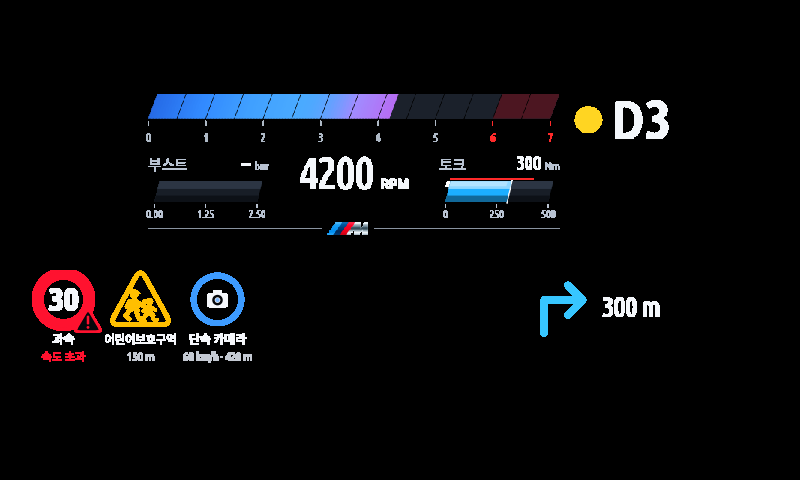
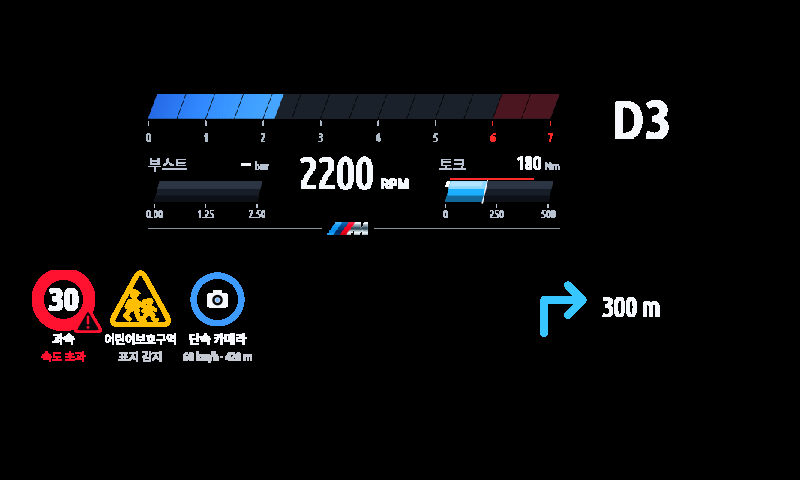
Cluster Redline 1.3.9: vehicle alerts from the inputs the drive logs showed
The 2026-11-14 drive logs: route events passed only with an empty type list
and returned none (speedLimitAssistInfo always NO_VALUE); the camera sign
recognition delivered speed limits and children signs. Speeding and children
signs now come from the sign recognition again (traffic-signs / traffic-live
restored from 1.2.57; inputs added read-only at install by traffic-config.js,
desktop patch v16 the same). Speed cameras stay on route events with the
empty list as the last fallback (not seen in either log). Status line shows
the sign / camera / speed receive counts.

Claude-Session: https://claude.ai/code/session_01LR6i2U2cVprmp7fS2LvR7P

diff --git a/apps/cluster_redline/worker.js b/apps/cluster_redline/worker.js
@@ -31,6 +31,8 @@ const {TurnSignal} = require('./turn-signal');
 const {TurnOverlay} = require('./turn-overlay');
 const {VehicleAlerts,SAMPLE:ALERT_SAMPLE} = require('./vehicle-alerts');
 const {AlertOverlay} = require('./alert-overlay');
+const {TrafficSigns,FIELDS:TRAFFIC_FIELDS} = require('./traffic-signs');
+const {live:trafficLive} = require('./traffic-live');
 const previewPresence = require('./preview-presence');
 function mono() { const p = process.hrtime(); return p[0] * 1000 + p[1] / 1000000; }
 function supportedRenderer() { return renderer.inspect(undefined, fs).compatible; }
@@ -80,6 +82,7 @@ function start(ctx) {
     const hudGuidance=new HudGuidance(mono,(proxy,method,args,timeout)=>signals.call(proxy,method,args,timeout));
     const routeEvents=new RouteEvents(mono,(proxy,method,args,timeout)=>signals.call(proxy,method,args,timeout));
     const lanes=new LaneGuidance(mono);
+    const traffic=new TrafficSigns(),trafficSubs=[];
     const vehicleAlerts=new VehicleAlerts(mono,(proxy,method,args,timeout)=>signals.call(proxy,method,args,timeout)),alertOverlay=new AlertOverlay(client);
     const turnSignal=new TurnSignal(),turnOverlay=new TurnOverlay(client);let lightSub=null,lightSeenAvailable=false,lightState='not_installed';
     const subs = [], errors = [];
@@ -153,6 +156,22 @@ function start(ctx) {
             StatusFunctionsIndicators: (v) => turnSignal.sample(v, mono()),
             StatusFunctionsIndicators2: (v) => turnSignal.sample(v, mono()),
         }, log, {}).then((s) => { lightSub = s; keep(s); lightState = s.error ? 'error' : 'subscribed'; if (s.error) reportError('optional turn signals', s.error); }).catch((e) => { lightState = 'error'; reportError('optional turn signals', e); });
+        // Vehicle alerts: the vehicle speed and the camera's sign recognition (added at install by traffic-config.js
+        // when the car's catalog has them). Events and fields notify; availability may never be reported, so a fresh
+        // event counts as live (traffic-live.js).
+        const here = typeof __dirname === 'string' ? __dirname : '.';
+        const instanceOf = (iface) => { for (const file of [path.resolve(here, '..', 'manifest.json'), path.resolve(here, '..', '..', 'manifest.json')]) {
+            try { const m = JSON.parse(fs.readFileSync(file, 'utf8')), p = m.proxies && m.proxies[iface]; if (p && p.instances) return String(p.instances).split(',')[0]; } catch (e) {} } return '1'; };
+        TRAFFIC_FIELDS.forEach(([iface, field]) => {
+            const entry = { iface, field, configured: false, received: 0, at: null, sub: null, error: null, wasAvailable: false, lostReceived: 0 }; trafficSubs.push(entry);
+            try {
+                const cfg = signals.loadConfig(iface);
+                if (!(cfg.fields && cfg.fields[field] || cfg.events && cfg.events[field] || cfg.broadcasts && cfg.broadcasts[field])) return;
+                entry.configured = true;
+                const handlers = {}; handlers[field] = (v) => { if (!stopped) { entry.received++; entry.at = mono(); traffic.sample(field, v, entry.at); } };
+                signals.watch(iface, instanceOf(iface), handlers, log, {}).then((s) => { entry.sub = s; keep(s); }).catch((e) => { entry.error = String(e && e.message || e); });
+            } catch (e) { entry.error = String(e && e.message || e); }
+        });
         // Read the common native/projection guidance channel. Never set routes,
         // call vehicle methods, or alter the BMW HUD/menu configuration.
         try {
@@ -364,8 +383,22 @@ function start(ctx) {
             else turnOverlay.tick(at, config, controller.turn, !!(pv && /^Turn/.test(pv.part || '')));
             // Vehicle alerts (vehicle-alerts.js): the car's speeding, school zone and speed camera events, on their
             // own HUD overlay; the Position / size preview shows every alert at once.
-            vehicleAlerts.tick(at, live && config.appEnabled && config.hudCarAlerts !== 'off' && !config.hudCarAlertHidden);
-            alertOverlay.tick(config, pv && pv.part === 'CarAlert' ? Object.assign({ preview: true }, ALERT_SAMPLE) : vehicleAlerts.read(at, config.hudCarAlerts));
+            // Speeding and children signs from the camera's sign recognition (traffic-signs.js, as the drive logs
+            // showed them); speed cameras from the navigation's route events (vehicle-alerts.js).
+            const alertsOn = live && config.appEnabled && config.hudCarAlerts !== 'off' && !config.hudCarAlertHidden;
+            const trafficStates = {}; trafficSubs.forEach((e) => { trafficStates[e.field] = trafficLive(e, at); });
+            const trafficOk = (f) => trafficStates[f] === true;
+            if (!alertsOn) traffic.clear();
+            else {
+                if (!trafficOk(TRAFFIC_FIELDS[0][1])) { traffic.speed = null; traffic.speedAt = null; }
+                if (!trafficOk(TRAFFIC_FIELDS[1][1])) { traffic.limit = null; traffic.limitAt = null; }
+                if (!trafficOk(TRAFFIC_FIELDS[2][1])) { traffic.camera = null; traffic.cameraAt = null; traffic.childAt = null; }
+            }
+            vehicleAlerts.tick(at, alertsOn && (config.hudCarAlerts === 'camera' || config.hudCarAlerts === 'all'));
+            const signAlerts = alertsOn ? traffic.alerts(at, config.hudCarAlerts, trafficOk(TRAFFIC_FIELDS[2][1])) : null, routeAlerts = alertsOn ? vehicleAlerts.read(at, config.hudCarAlerts) : null;
+            const carAlerts = signAlerts || routeAlerts ? { speeding: (signAlerts && signAlerts.speeding) || (routeAlerts && routeAlerts.speeding) || null,
+                school: (signAlerts && signAlerts.school) || (routeAlerts && routeAlerts.school) || null, camera: routeAlerts && routeAlerts.camera || null } : null;
+            alertOverlay.tick(config, pv && pv.part === 'CarAlert' ? Object.assign({ preview: true }, ALERT_SAMPLE) : carAlerts);
             if (at - lastStatus >= 500) {
                 lastStatus = at;
                 latest = ({
@@ -374,7 +407,7 @@ function start(ctx) {
                     gear: state.gear, torqueNm: state.torqueNm, powerPS: state.powerPS, powerEstimated: true,
                     targetName: state.targetName, targetState: state.targetState, targetHolder: state.targetHolder, targetReason: state.targetReason,
                     guidanceRequested: !!state.guidanceRequested, guidanceDisabled: !!state.guidanceDisabled,
-                    outputs: state.outputs, vehicleAlerts: Object.assign({ mode: config.hudCarAlerts, overlay: alertOverlay.status() }, vehicleAlerts.status(at)), turnSignal: Object.assign({ state: lightSub ? (lightSub.error ? 'error' : lightSub.proxy ? 'subscribed' : 'waiting') : lightState, available: lightSub ? lightSub.available : null, received: turnSignal.received, raw: turnSignal.raw, subscribed: !!lightSub && !lightSub.error, overlay: turnOverlay.status(), drawnIn: controller.turnPainted && controller.hudShown ? 'redline-hud' : 'overlay' }, controller.turn || {}), clusterYield: Object.assign({ setting: config.clusterYieldGuidance, active: !!controller.guidanceYield }, controller.guidanceYieldDetail || {}), navigation: navigationState, maneuver: maneuverState, commonManeuver: commonManeuver, hudGuidance: hudGuidance.status(at), routeEvents: routeEvents.status(at), projectedNavigation: maneuvers.projectedStatus(at),
+                    outputs: state.outputs, vehicleAlerts: Object.assign({ mode: config.hudCarAlerts, overlay: alertOverlay.status(), signs: trafficSubs.map((e) => ({ field: e.field, configured: e.configured, received: e.received, live: trafficLive(e, at) })), diagnostics: traffic.diagnostics(at) }, vehicleAlerts.status(at)), turnSignal: Object.assign({ state: lightSub ? (lightSub.error ? 'error' : lightSub.proxy ? 'subscribed' : 'waiting') : lightState, available: lightSub ? lightSub.available : null, received: turnSignal.received, raw: turnSignal.raw, subscribed: !!lightSub && !lightSub.error, overlay: turnOverlay.status(), drawnIn: controller.turnPainted && controller.hudShown ? 'redline-hud' : 'overlay' }, controller.turn || {}), clusterYield: Object.assign({ setting: config.clusterYieldGuidance, active: !!controller.guidanceYield }, controller.guidanceYieldDetail || {}), navigation: navigationState, maneuver: maneuverState, commonManeuver: commonManeuver, hudGuidance: hudGuidance.status(at), routeEvents: routeEvents.status(at), projectedNavigation: maneuvers.projectedStatus(at),
                     laneGuidance:lanes.status(at),
                     auxiliary:{values:controller.aux,diagnostics:auxInfo.diag,setup:auxSetup,sources:auxSubs.map(e=>({field:e.source.field,available:!!(e.sub&&e.sub.available&&!e.sub.error),wanted:!!e.wanted,pending:!!e.pending,notifyOnly:!!e.notifyOnly,received:e.received||0,lastAgeMs:e.lastAt?Math.round(at-e.lastAt):null,error:e.sub&&e.sub.error?String(e.sub.error).slice(0,120):null})),missingOptional:Object.keys(SOURCES.reduce((o,s)=>{o[s.iface]=1;return o;},{})).filter(i=>!auxSubs.some(e=>e.source.iface===i))},
                     collection:{fields:Array.from(collection.fields),metrics:Array.from(collection.aux),subscriptions:collectors.status()},

diff --git a/tests/cluster_redline/car-alerts.test.js b/tests/cluster_redline/car-alerts.test.js
@@ -40,8 +40,12 @@ const ok=(events)=>({GuidanceEventListError:'NO_ERROR',viewContent:[{eventsInVie
   assert.strictEqual(v.read(t+4000,'camera'),null,'stale after 3 s');
   v.tick(t+5000,false);assert.strictEqual(v.state,'off');assert.strictEqual(v.read(t+5000,'all'),null);v.stop();}
  {let t=0;const v=new VehicleAlerts(()=>t,()=>Promise.resolve({GuidanceEventListError:'INVALID_VIEW_PARAMS'}));v.attach({proxy:{}});
-  for(let i=0;i<4;i++){t+=1000;v.tick(t,true);await settle();}assert.strictEqual(v.state,'types_rejected');
-  t+=1000;v.tick(t,true);await settle();assert.strictEqual(v.queries,4,'rejected: not asked again for 30 s');}
+  for(let i=0;i<5;i++){t+=1000;v.tick(t,true);await settle();}assert.strictEqual(v.state,'types_rejected');
+  t+=1000;v.tick(t,true);await settle();assert.strictEqual(v.queries,5,'rejected (empty list too): not asked again for 30 s');}
+ // the 2026-11-14 drive log: every named type refused, the empty list accepted
+ {let t=0;const asked=[];const v=new VehicleAlerts(()=>t,(p,m,args)=>{const ty=args.viewConfigs[0].viewport.includedTypes;asked.push(ty);return Promise.resolve(ty.length?{GuidanceEventListError:'INVALID_VIEW_PARAMS'}:ok([{speedCamera:{formattedDistance:dist(300)}}]));});
+  v.attach({proxy:{}});for(let i=0;i<6;i++){t+=1000;v.tick(t,true);await settle();}
+  assert.deepStrictEqual(asked[4],[],'then the empty list');assert.deepStrictEqual(v.types,[]);assert.deepStrictEqual(asked[5],[],'kept');assert(v.read(t,'camera'));}
  // demand: GuidanceEventList only while alerts are on; yield follows the phone's guidance flags
  {const on=demand(settings({appEnabled:true,hudCarAlerts:'all',navDisplayMode:'stock'}),null),off=demand(settings({appEnabled:true,navDisplayMode:'stock'}),null);
   assert(on.fields.has('de.bmw.infotainment.navigation.guiding.GuidanceEventList'));assert(!off.fields.has('de.bmw.infotainment.navigation.guiding.GuidanceEventList'));
@@ -69,6 +73,34 @@ const ok=(events)=>({GuidanceEventListError:'NO_ERROR',viewContent:[{eventsInVie
   ov.tick(settings({hudCarAlerts:'all',hudCarAlertHidden:true}),{school:{inside:true}});assert.strictEqual(l.visible,false,'hidden in Position / size');
   ov.tick(settings({hudCarAlerts:'all',hudCarAlertHidden:true}),Object.assign({preview:true},SAMPLE));assert.strictEqual(l.visible,true,'preview while adjusting');
   ov.close();assert.strictEqual(layers.size,0);Module._load=orig;}
+ // speeding and children signs from the camera's sign recognition (shapes as in the 2026-11-14 drive log)
+ {const {TrafficSigns}=require('../../apps/cluster_redline/traffic-signs');const {filterTraffic}=require('../../apps/cluster_redline/traffic-config');
+  const sign=(type,value)=>({type,value,trafficSignForm:'ROUND',position:{left:false,right:true,overhead:false},firstSupplementalType:'SIGNAL_UNFILLED',secondSupplementalType:'SIGNAL_UNFILLED',additionalInfo:'NO_ADDITIONAL_RESTRICTION',variable:false,location:{locationInvalidFlags:0,x:30,y:-12,z:1.5}});
+  const cam=signs=>({eventDataQualifier:'EVENT_DATA_AVAILABLE',extendedQualifier:'NORMAL_OPERATION_MODE',trafficSignRecognition:{version:98,numberSigns:signs.length,speedLimitUnit:'KM_H'},trafficSign:signs,trafficSignRecognitionQuality:signs.map(()=>({qualityType:100,qualityValue:47}))});
+  const tsr=cls=>({presentWithdrawalLimitSpeed:1,presentClassLimitSpeed:cls,nextClassLimitSpeed:254,unitOfMeasurementSpeedLimit:0});
+  const t=new TrafficSigns();t.sample('TrafficSignRecognition',tsr(6),0);t.sample('TrafficSignRecognitionFrontCamera',cam([sign('SPEED_LIMIT',30)]),0);
+  t.sample('statusCarSpeed2',{speedVehicleCentreOfGravity:36*64},0);
+  assert.strictEqual(t.alerts(500,'all',true),null,'over for less than a second: nothing yet');
+  t.sample('statusCarSpeed2',{speedVehicleCentreOfGravity:36*64},1500);assert.deepStrictEqual(t.alerts(1600,'speed',true),{speeding:{limit:30},school:null},'36 in a 30 for a second: speeding');
+  assert.strictEqual(t.alerts(1600,'camera',true),null,'camera mode: not from signs');
+  t.sample('statusCarSpeed2',{speedVehicleCentreOfGravity:30*64},1700);assert.strictEqual(t.alerts(1800,'speed',true),null,'back at the limit');
+  t.sample('TrafficSignRecognitionFrontCamera',cam([sign('DS_CHILDREN',0),sign('SPEED_LIMIT',30)]),2000);
+  assert.deepStrictEqual(t.alerts(2100,'school',true),{speeding:null,school:{sign:true}},'children sign');assert.strictEqual(t.alerts(8500,'school',true),null,'6 s');
+  t.sample('TrafficSignRecognitionFrontCamera',cam([sign('DS_CHILDREN',0)]),9000);assert.strictEqual(t.alerts(9100,'school',true),null,'30 s between children alerts');
+  assert.strictEqual(t.alerts(9100,'all',false),null,'camera input not live: nothing');
+  // install time: added read-only from the catalog, only with valid ids and a known instance
+  const catalog={interfaces:{'de.bmw.infotainment.vehicle.Vehicle2':{fields:{statusCarSpeed2:{getter:{id:7},notifier:{id:32775}}}},'de.bmw.dass.TrafficSignRecognition':{events:{TrafficSignRecognition:{eventId:32900}}},'de.bmw.environmentalmodel.SignRecognitionFrontCamera':{events:{TrafficSignRecognitionFrontCamera:{eventId:5}}}},
+   instanceIDs:{'de.bmw.infotainment.vehicle.Vehicle2':{'1':1},'de.bmw.dass.TrafficSignRecognition':{'1':1},'de.bmw.environmentalmodel.SignRecognitionFrontCamera':{'1':1}}};
+  const m=filterTraffic({proxies:{}},catalog).proxies;
+  assert.deepStrictEqual(m['de.bmw.infotainment.vehicle.Vehicle2'],{instances:'1',attributes:{statusCarSpeed2:'rs'}});
+  assert.deepStrictEqual(m['de.bmw.dass.TrafficSignRecognition'],{instances:'1',broadcasts:['TrafficSignRecognition']});
+  assert(!m['de.bmw.environmentalmodel.SignRecognitionFrontCamera'],'invalid eventId: not added');assert.deepStrictEqual(filterTraffic({proxies:{}},{}).proxies,{},'no catalog: nothing');
+  // demand: signs for speeding / school / all, route events for camera / all
+  const f=mode=>Array.from(demand(settings({appEnabled:true,hudCarAlerts:mode,navDisplayMode:'stock'}),null).fields);
+  assert(f('speed').some(x=>/SignRecognitionFrontCamera/.test(x))&&f('speed').some(x=>/Vehicle2\.statusCarSpeed2/.test(x))&&!f('speed').some(x=>/GuidanceEventList/.test(x)));
+  assert(f('camera').some(x=>/GuidanceEventList/.test(x))&&!f('camera').some(x=>/TrafficSign/.test(x)));
+  assert(f('all').some(x=>/GuidanceEventList/.test(x))&&f('all').some(x=>/TrafficSignRecognition\.TrafficSignRecognition$/.test(x)));
+  assert(!f('off').some(x=>/TrafficSign|Vehicle2|GuidanceEventList/.test(x)));}
  if(process.argv[2]){
   const dir=path.join(path.resolve(process.argv[2]),'source/javascript'),A=require(path.join(dir,'alert-draw'));
   const count=cv=>{let k=0;for(let i=3;i<cv.d.length;i+=4)if(cv.d[i])k++;return k;};
@@ -85,5 +117,5 @@ const ok=(events)=>({GuidanceEventListError:'NO_ERROR',viewContent:[{eventsInVie
   page.back();assert.strictEqual(vals.layoutPreview,'');
   const cv=new Canvas(1600,520);page.draw(cv,'',{vehicleAlerts:{state:'ready',queries:3,replies:2,kinds:{speedCamera:1}}});
  }
- console.log('PASS: vehicle alerts: route event decoding (camera, section, school zone, the car\'s TOO_FAST), includedTypes fallback, freshness and modes, HUD overlay, demand (alerts, yield flags), NAV tab row and Position / size'+(process.argv[2]?', icons and settings screen':''));
+ console.log('PASS: vehicle alerts: speeding and children signs from the camera sign recognition (log shapes), install-time inputs, route event decoding (camera, section, school zone, the car\'s TOO_FAST), includedTypes fallback, freshness and modes, HUD overlay, demand (alerts, yield flags), NAV tab row and Position / size'+(process.argv[2]?', icons and settings screen':''));
 })().catch(e=>{console.error(e);process.exitCode=1;});

diff --git a/apps/cluster_redline/traffic-signs.js b/apps/cluster_redline/traffic-signs.js
@@ -1,0 +1,65 @@
+'use strict';
+// Read-only sign alerts for the vehicle alerts (speeding, children signs), restored from 1.2.57. Written from the
+// 2026-11-14 drive log (speed-probe2): only the class/number pairs observed there are accepted
+// (TSR class 2/6/8/10 with the camera's SPEED_LIMIT 10/30/40/50); a camera candidate alone is never treated as the
+// current road's speed limit. The children sign is the camera's DS_CHILDREN (seen 13 times in that log).
+const SPEED_IF='de.bmw.infotainment.vehicle.Vehicle2',SPEED='statusCarSpeed2';
+const TSR_IF='de.bmw.dass.TrafficSignRecognition',TSR='TrafficSignRecognition';
+const CAMERA_IF='de.bmw.environmentalmodel.SignRecognitionFrontCamera',CAMERA='TrafficSignRecognitionFrontCamera';
+const FIELDS=[[SPEED_IF,SPEED],[TSR_IF,TSR],[CAMERA_IF,CAMERA]];
+const CLASSES={2:10,6:30,8:40,10:50},TTL=30000,CHILD_HOLD=6000,CHILD_COOLDOWN=30000;
+const finite=v=>typeof v==='number'&&isFinite(v);
+const fresh=(at,now,ttl)=>at!==null&&now>=at&&now-at<=ttl;
+class TrafficSigns{
+ constructor(){this.clear();}
+ clear(){this.speed=null;this.speedAt=null;this.limit=null;this.limitAt=null;this.camera=null;this.cameraAt=null;this.childAt=null;this.lastChild=-Infinity;this.over=false;this.overAt=null;this.rawClass=null;}
+ sample(kind,v,now){
+  if(kind===SPEED){const r=v&&v.speedVehicleCentreOfGravity;this.speed=finite(r)&&r>=0&&r<=400*64?r/64:null;this.speedAt=this.speed===null?null:now;return;}
+  if(kind===TSR){
+   this.rawClass=v&&Number.isInteger(v.presentClassLimitSpeed)?v.presentClassLimitSpeed:null;
+   const before=this.limit;
+   const n=v&&Number.isInteger(v.presentClassLimitSpeed)&&CLASSES[v.presentClassLimitSpeed];
+   // On the observed car: unit 0 accompanies valid km/h classes, unit 2 / class 254 accompanies withdrawal.
+   this.limit=v&&v.presentWithdrawalLimitSpeed===1&&v.unitOfMeasurementSpeedLimit===0&&n?n:null;
+   this.limitAt=this.limit===null?null:now;if(this.limit===null||before!==this.limit){this.over=false;this.overAt=null;}return;
+  }
+  if(kind!==CAMERA)return;
+  const h=v&&v.trafficSignRecognition,n=h&&h.numberSigns;
+  if(!v||v.eventDataQualifier!=='EVENT_DATA_AVAILABLE'||v.extendedQualifier!=='NORMAL_OPERATION_MODE'||!h||h.speedLimitUnit!=='KM_H'||!Number.isInteger(n)||n<0||n>32||!Array.isArray(v.trafficSign)){
+   this.camera=null;this.cameraAt=null;this.childAt=null;return;
+  }
+  const signs=v.trafficSign.slice(0,n),qs=v.trafficSignRecognitionQuality||[];
+  const valid=(s,i)=>{const q=qs[i],p=s&&s.position,l=s&&s.location;
+   return s&&s.type!=='SIGNAL_UNFILLED'&&s.additionalInfo==='NO_ADDITIONAL_RESTRICTION'&&l&&l.locationInvalidFlags===0&&p&&!p.left&&(p.right||p.overhead)&&q&&q.qualityType===100&&finite(q.qualityValue)&&q.qualityValue>=40&&q.qualityValue<=100;
+  };
+  if(signs.some((s,i)=>valid(s,i)&&/^WITHDRAWAL_SPEED_LIMIT/.test(s.type))){this.camera=null;this.cameraAt=null;}
+  else{
+   const candidates=signs.filter((s,i)=>valid(s,i)&&s.type==='SPEED_LIMIT'&&[10,30,40,50].includes(s.value)&&s.firstSupplementalType==='SIGNAL_UNFILLED'&&s.secondSupplementalType==='SIGNAL_UNFILLED');
+   const limits=Array.from(new Set(candidates.map(s=>s.value)));
+   if(limits.length===1){this.camera=limits[0];this.cameraAt=now;}
+   else if(limits.length>1){this.camera=null;this.cameraAt=null;}
+  }
+  if(signs.some((s,i)=>valid(s,i)&&s.type==='DS_CHILDREN')&&now-this.lastChild>=CHILD_COOLDOWN){this.childAt=now;this.lastChild=now;}
+ }
+ read(now,mode,available){
+  if(!['speed','children','both'].includes(mode)||!available)return {visible:false,limit:null,children:false,over:false};
+  const limit=mode!=='children'&&fresh(this.limitAt,now,TTL)&&fresh(this.cameraAt,now,TTL)&&this.limit===this.camera?this.limit:null;
+  const children=mode!=='speed'&&fresh(this.childAt,now,CHILD_HOLD);
+  if(limit!==null&&fresh(this.speedAt,now,2000)){
+   if(this.speed>limit+3){if(this.overAt===null)this.overAt=now;if(now-this.overAt>=1000)this.over=true;}
+   else if(this.speed<=limit+1){this.over=false;this.overAt=null;}
+   else if(!this.over)this.overAt=null;
+  }else{this.over=false;this.overAt=null;}
+  return {visible:limit!==null||children,limit,children,over:limit!==null&&this.over,speed:fresh(this.speedAt,now,2000)?this.speed:null};
+ }
+ // For the vehicle alerts: { speeding: { limit } } while over the agreed limit, { school: { sign: true } } for a
+ // children sign (6 s, 30 s between alerts). mode: 'speed' | 'school' | 'all' (anything else: nothing).
+ alerts(now,mode,available){
+  const m=mode==='all'?'both':mode==='speed'?'speed':mode==='school'?'children':null;if(!m)return null;
+  const r=this.read(now,m,available);if(!r.visible)return null;
+  const v={speeding:r.over?{limit:r.limit}:null,school:r.children?{sign:true}:null};
+  return v.speeding||v.school?v:null;
+ }
+ diagnostics(now){return {rawClass:this.rawClass,limit:this.limit,camera:this.camera,limitAgeMs:this.limitAt===null?null:now-this.limitAt,cameraAgeMs:this.cameraAt===null?null:now-this.cameraAt,childrenAgeMs:this.childAt===null?null:now-this.childAt};}
+}
+module.exports={TrafficSigns,FIELDS,SPEED_IF,SPEED,TSR_IF,TSR,CAMERA_IF,CAMERA,CLASSES};

diff --git a/tests/cluster_redline/worker-car-alerts.test.js b/tests/cluster_redline/worker-car-alerts.test.js
@@ -1,0 +1,43 @@
+'use strict';
+// The worker end to end: with Vehicle alerts on, the vehicle speed and the camera sign recognition are subscribed
+// (availability never reported, as on the 2026-11-14 drive) and speeding / children signs reach the HUD overlay.
+const assert=require('assert'),fs=require('fs'),path=require('path'),vm=require('vm'),{EventEmitter}=require('events');
+const {settings}=require('../../apps/cluster_redline/policy');
+const source=fs.readFileSync(path.join(__dirname,'../../apps/cluster_redline/worker.js'),'utf8');
+const SPEED='de.bmw.infotainment.vehicle.Vehicle2',TSR='de.bmw.dass.TrafficSignRecognition',CAM='de.bmw.environmentalmodel.SignRecognitionFrontCamera';
+async function run(mode){
+ let time=0,timer=null;const feeds={},shown=[];const config=settings({hudCarAlerts:mode});
+ class FakeClient extends EventEmitter{constructor(){super();this.ready=false;this.backend='id7';this.targets='map:1088x480,panel:1920x720,hud:800x480';this.next=0;}connect(){this.ready=true;this.emit('ready');}image(){return ++this.next;}pixels(){}set(){}drop(){}close(){}}
+ const painter={W:1088,H:480,draw:()=>({d:Buffer.alloc(4)}),difference:()=>({rects:[],pixels:Buffer.alloc(0)})};
+ const box={module:{exports:{}},require:name=>{
+   if(name==='fs')return {readFileSync:f=>{if(/manifest\.json$/.test(f))throw new Error('none');return JSON.stringify({id:'cluster-render',version:'0.4.0'});},writeFileSync(){},renameSync(){}};
+   if(name==='path')return path;if(name==='./cluster_render_client')return {ClusterRender:FakeClient};if(name==='./draw')return painter;
+   if(name==='./hud-compose')return Object.assign({},painter,{W:800,H:480,fullTarget:true});
+   if(name==='./turn-overlay')return {TurnOverlay:class{tick(){}hide(){}close(){}status(){return {};}}};
+   if(name==='./alert-overlay')return {AlertOverlay:class{tick(cfg,v){shown.push(v);return {shown:!!v};}close(){}status(){return {};}}};
+   return require('../../apps/cluster_redline/'+name.slice(2));
+  },process:{hrtime:()=>[Math.floor(time/1000),Math.floor((time%1000)*1e6)],once(){},removeListener(){}},setTimeout:fn=>{timer=fn;return 1;},clearTimeout:()=>{timer=null;},console};
+ vm.runInNewContext(source,box,{filename:'worker.js'});
+ const worker=box.module.exports.start({dataDir:'/data',app:new EventEmitter(),settings:{get:k=>config[k]},log:{warn(){},info(){}},
+  signals:{hasNative:()=>true,loadConfig:iface=>{if(iface===SPEED)return {fields:{statusCarSpeed2:{getter:{id:7},notifier:{id:32775}}}};if(iface===TSR)return {events:{TrafficSignRecognition:{}}};if(iface===CAM)return {events:{TrafficSignRecognitionFrontCamera:{}}};throw new Error('absent');},
+   watch:(iface,instance,handlers)=>{feeds[iface]=handlers;return Promise.resolve({available:false,shutdown(){}});}}});
+ const tick=async at=>{time=at;const fn=timer;timer=null;fn();for(let i=0;i<5;i++)await Promise.resolve();};
+ await tick(500);
+ return {worker,feeds,tick,shown};
+}
+const sign=(type,value)=>({type,value,position:{left:false,right:true,overhead:false},firstSupplementalType:'SIGNAL_UNFILLED',secondSupplementalType:'SIGNAL_UNFILLED',additionalInfo:'NO_ADDITIONAL_RESTRICTION',location:{locationInvalidFlags:0}});
+const cam=signs=>({eventDataQualifier:'EVENT_DATA_AVAILABLE',extendedQualifier:'NORMAL_OPERATION_MODE',trafficSignRecognition:{numberSigns:signs.length,speedLimitUnit:'KM_H'},trafficSign:signs,trafficSignRecognitionQuality:signs.map(()=>({qualityType:100,qualityValue:47}))});
+(async()=>{
+ {const t=await run('all');
+  await t.tick(550);assert(t.feeds[SPEED]&&t.feeds[TSR]&&t.feeds[CAM],'speed and sign recognition subscribed: '+Object.keys(t.feeds).join());
+  t.feeds[TSR].TrafficSignRecognition({presentWithdrawalLimitSpeed:1,presentClassLimitSpeed:6,unitOfMeasurementSpeedLimit:0});
+  t.feeds[CAM].TrafficSignRecognitionFrontCamera(cam([sign('SPEED_LIMIT',30),sign('DS_CHILDREN',0)]));
+  for(let at=600;at<=2600;at+=100){t.feeds[SPEED].statusCarSpeed2({speedVehicleCentreOfGravity:37*64});await t.tick(at);}
+  const last=t.shown[t.shown.length-1];
+  assert(last&&last.speeding&&last.speeding.limit===30,'speeding 37 in a 30 reaches the overlay: '+JSON.stringify(last));
+  assert(t.shown.some(v=>v&&v.school&&v.school.sign),'children sign reaches the overlay');
+  t.worker.stop();}
+ {const t=await run('off');assert(!t.feeds[SPEED]&&!t.feeds[CAM],'off: not subscribed');t.worker.stop();}
+ {const t=await run('camera');assert(!t.feeds[CAM],'camera only: signs not subscribed');t.worker.stop();}
+ console.log('PASS: worker vehicle alerts: speed and sign recognition subscribed while on, speeding and children signs reach the HUD overlay without an availability report');
+})().catch(e=>{console.error(e);process.exitCode=1;});

diff --git a/apps/cluster_redline/strings.js b/apps/cluster_redline/strings.js
@@ -11,7 +11,7 @@ const KO={
  'Traffic signs':'교통 표지','Select Redline HUD in the current drive mode':'현재 주행 모드의 HUD를 레드라인 앱으로 선택하세요','Camera input missing · reinstall from Store':'카메라 신호 미설치 · 스토어에서 다시 설치','Waiting for camera sign data':'카메라 표지 데이터 수신 대기','Camera':'카메라','Combined recognition':'종합 인식','Alert data ready':'알림 표시 조건 충족','Camera data expired or disconnected':'카메라 데이터 만료 또는 연결 끊김','Combined input missing · reinstall from Store':'종합 인식 신호 미설치 · 스토어에서 다시 설치','Speed limit outside supported test range':'시험 지원 범위 밖 제한속도','No fresh matching sign · children alert lasts 6 s':'유효한 일치 표지 대기 · 어린이 알림은 6초 표시',
  'Save + new recording':'기록 저장 · 계속','Clear current records':'현재 기록 지우기','No records yet · recording started':'저장할 기록 없음 · 새 수집 시작','Saved · new recording':'저장 완료 · 새 수집 중','Save failed':'기록 저장 또는 재시작 실패',
  'Shown on the HUD whenever a turn signal or the hazards flash, even with the stock HUD.':'방향지시등·비상등이 깜빡이면 순정 HUD에서도 표시됩니다.',
- 'Turn signal input':'깜빡이 신호','Vehicle alerts':'차량 알림','Speeding':'과속','School zone':'어린이보호구역','Speed camera':'단속 카메라','Section camera':'구간 단속','In the zone':'구역 안','In the section':'구간 안','Show all':'전체 표시','route events not available yet':'길안내 이벤트 아직 없음','the car refused the alert query':'차가 알림 조회를 거부함','asked':'조회','no reply yet':'응답 없음','shown':'표시 중','not installed (reinstall from the Store)':'미설치 (스토어에서 다시 설치)','no value from the car yet':'차에서 값이 아직 안 옴','Left':'왼쪽','Right':'오른쪽','Both (hazards)':'양쪽(비상등)','in the Redline HUD':'레드라인 HUD에 표시','overlay':'오버레이로 표시',
+ 'Turn signal input':'깜빡이 신호','Vehicle alerts':'차량 알림','Sign recognition':'표지 인식','Speed':'속도','Speeding':'과속','School zone':'어린이보호구역','Speed camera':'단속 카메라','Section camera':'구간 단속','In the zone':'구역 안','In the section':'구간 안','Show all':'전체 표시','route events not available yet':'길안내 이벤트 아직 없음','the car refused the alert query':'차가 알림 조회를 거부함','asked':'조회','no reply yet':'응답 없음','shown':'표시 중','not installed (reinstall from the Store)':'미설치 (스토어에서 다시 설치)','no value from the car yet':'차에서 값이 아직 안 옴','Left':'왼쪽','Right':'오른쪽','Both (hazards)':'양쪽(비상등)','in the Redline HUD':'레드라인 HUD에 표시','overlay':'오버레이로 표시',
  'Speed limit':'제한속도','Speed alert':'과속 알림',
  'Children caution':'어린이 주의','Sign detected':'표지 감지',
  'Traffic sign alerts · experimental':'교통 표지 알림 · 시험 기능','Recognised speed limit':'인식 제한속도','Children sign':'어린이 주의 표지','Speed limit + children':'제한속도 + 어린이 주의','Children · sign detected':'어린이 주의 · 표지 감지','Over limit':'속도 초과',

diff --git a/apps/cluster_redline/traffic-config.js b/apps/cluster_redline/traffic-config.js
@@ -1,0 +1,35 @@
+'use strict';
+// Install time (Store build on the head unit, with the car's own SOME/IP catalog): add the read-only inputs the
+// vehicle alerts use for speeding and children signs, the ones the 2026-11-14 drive logs showed arriving:
+//   Vehicle2.statusCarSpeed2                                   field  (the vehicle speed)
+//   dass.TrafficSignRecognition.TrafficSignRecognition         event  (the combined speed limit class)
+//   environmentalmodel.SignRecognitionFrontCamera
+//       .TrafficSignRecognitionFrontCamera                     event  (the camera's signs: SPEED_LIMIT, DS_CHILDREN)
+// Each is added only when the catalog has it with a valid getter / notifier or eventId and a known instance; an
+// existing proxy on another instance is left alone. Nothing is ever written to the car; only our manifest changes.
+const INPUTS=[
+ ['de.bmw.infotainment.vehicle.Vehicle2','statusCarSpeed2','field'],
+ ['de.bmw.dass.TrafficSignRecognition','TrafficSignRecognition','event'],
+ ['de.bmw.environmentalmodel.SignRecognitionFrontCamera','TrafficSignRecognitionFrontCamera','event'],
+];
+const validId=(n,lo,hi)=>Number.isInteger(n)&&n>=lo&&n<=hi;
+function instanceOf(catalog,iface){
+ const ids=catalog&&catalog.instanceIDs&&catalog.instanceIDs[iface];if(!ids)return null;
+ const keys=Object.keys(ids).filter(k=>ids[k]!==null&&ids[k]!==undefined);
+ return keys.includes('1')?'1':keys.includes('Main_Instance')?'Main_Instance':keys[0]||null;
+}
+function filterTraffic(manifest,catalog){
+ const defs=catalog&&catalog.interfaces;if(!defs)return manifest;
+ const proxies=manifest.proxies||(manifest.proxies={});
+ INPUTS.forEach(([iface,name,kind])=>{
+  const d=defs[iface],inst=instanceOf(catalog,iface);if(!d||!inst)return;
+  let p=proxies[iface];if(p&&String(p.instances||'').split(',')[0]!==inst)return;
+  if(kind==='event'){const e=d.events&&d.events[name];if(!e||!validId(e.eventId,32768,65535))return;
+   p=p||(proxies[iface]={instances:inst});p.broadcasts=p.broadcasts||[];if(!p.broadcasts.includes(name))p.broadcasts.push(name);return;}
+  const f=d.fields&&d.fields[name];if(!f)return;
+  const get=f.getter&&validId(f.getter.id,1,32767),notify=f.notifier&&validId(f.notifier.id,32768,65535);if(!get&&!notify)return;
+  p=p||(proxies[iface]={instances:inst});p.attributes=p.attributes||{};if(p.attributes[name]===undefined)p.attributes[name]=get?(notify?'rs':'r'):'s';
+ });
+ return manifest;
+}
+module.exports={filterTraffic,INPUTS,instanceOf};

diff --git a/apps/cluster_redline/settings-ui.js b/apps/cluster_redline/settings-ui.js
@@ -199,11 +199,15 @@ class SettingsPage{
  // Vehicle alerts from the car: query state, replies, the alert kinds in the last reply, what shows now.
  alertStatus(cfg){
   if(cfg.hudCarAlerts==='off')return '';const head=tr('Vehicle alerts'),a=this.liveState&&this.liveState.vehicleAlerts;if(!a)return head+': '+tr('waiting for the background app');
-  if(a.state==='waiting')return head+': '+tr('route events not available yet');if(a.state==='interface_error')return head+': '+tr('subscription error');
-  if(a.state==='types_rejected')return head+': '+tr('the car refused the alert query')+(a.error?' · '+a.error:'');
-  if(!a.replies)return head+': '+tr('asked')+' '+a.queries+' · '+tr('no reply yet')+(a.error?' · '+a.error:'');
-  const n=k=>(a.kinds&&a.kinds[k])||0,o=a.overlay||{};
-  return head+': '+tr('received')+' '+a.replies+' · '+tr('Speed camera')+' '+(n('speedCamera')+n('speedSectionCamera'))+' · '+tr('School zone')+' '+n('schoolZone')+' · '+tr('Speed limit')+' '+n('speedLimitAssist')+(o.shown?' · '+tr('shown'):'');
+  const parts=[],o=a.overlay||{};
+  // speeding / children signs: the camera's sign recognition and the vehicle speed (received counts)
+  if(cfg.hudCarAlerts!=='camera'){const s=a.signs||[],n=f=>{const e=s.find(x=>x.field===f);return !e||!e.configured?'X':String(e.received);};
+   parts.push(tr('Sign recognition')+' '+n('TrafficSignRecognition')+' · '+tr('Camera')+' '+n('TrafficSignRecognitionFrontCamera')+' · '+tr('Speed')+' '+n('statusCarSpeed2'));}
+  // speed cameras: the navigation's route events
+  if(cfg.hudCarAlerts==='camera'||cfg.hudCarAlerts==='all'){const k=x=>(a.kinds&&a.kinds[x])||0;
+   parts.push(a.state==='waiting'?tr('route events not available yet'):a.state==='types_rejected'?tr('the car refused the alert query'):!a.replies?tr('Speed camera')+' '+tr('no reply yet'):tr('Speed camera')+' '+(k('speedCamera')+k('speedSectionCamera'))+'/'+a.replies);}
+  if(o.shown)parts.push(tr('shown'));
+  return head+': '+parts.join(' · ');
  }
  yieldStatus(cfg){
   if(cfg.clusterYieldGuidance==='off')return '';const y=this.liveState&&this.liveState.clusterYield;if(!y)return tr('Yield')+': '+tr('waiting for the background app');

diff --git a/apps/cluster_redline/vehicle-alerts.js b/apps/cluster_redline/vehicle-alerts.js
@@ -12,7 +12,8 @@
 // Speeding is the car's own TOO_FAST verdict; nothing is guessed from the vehicle speed.
 //
 // includedTypes: the three alert kinds together; if the car refuses that set, each kind is asked alone once and
-// only the accepted ones are kept (the 1.2.5x probe saw a car accept only some type lists).
+// only the accepted ones are kept; if none is accepted, the empty list (the only one the 2026-11-14 drive log saw
+// accepted: NO_ERROR, no events on that drive), whatever the car then sends.
 const {distanceText}=require('./native-navigation');
 const KINDS=['speedCamera','speedSectionCamera','schoolZone','speedLimitAssist'];
 const TYPES=['INCLUDE_SPEED_CAMERA','INCLUDE_SCHOOL_ZONES','INCLUDE_SPEED_LIMIT_ASSIST'];
@@ -64,12 +65,15 @@ class VehicleAlerts{
  attach(sub){if(this.sub!==sub){this.epoch++;this.last=null;this.at=null;}this.sub=sub;}
  stop(){this.closed=true;this.epoch++;this.sub=null;this.last=null;this.at=null;this.state='stopped';}
  // The type list to ask next: the accepted one, else the full set, else each kind alone in turn.
- next(){if(this.types)return this.types;if(!this.trying)this.trying={list:[TYPES.slice()].concat(TYPES.map(t=>[t])),index:0,accepted:[]};return this.trying.list[this.trying.index];}
+ next(){if(this.types)return this.types;if(!this.trying)this.trying={list:[TYPES.slice()].concat(TYPES.map(t=>[t]),[[]]),index:0,accepted:[]};return this.trying.list[this.trying.index];}
  result(types,ok){
   if(this.types){if(!ok)this.error=this.error||'query_failed';return;}
   const t=this.trying;if(!t)return;
   if(ok&&t.index===0){this.types=types.slice();this.trying=null;return;}
-  if(ok&&t.index>0)t.accepted.push(types[0]);
+  if(ok&&types.length===1)t.accepted.push(types[0]);
+  // the empty list is tried only when no kind was accepted alone
+  if(t.index===t.list.length-2&&t.accepted.length){this.types=t.accepted;this.trying=null;return;}
+  if(ok&&!types.length){this.types=[];this.trying=null;return;}
   t.index++;if(t.index<t.list.length)return;
   this.trying=null;if(t.accepted.length)this.types=t.accepted;else{this.state='types_rejected';this.types=null;this.trying=null;this.rejectedAt=this.clock();}
  }

diff --git a/apps/cluster_redline/alert-draw.js b/apps/cluster_redline/alert-draw.js
@@ -53,7 +53,7 @@ function paint(cv,v){
  }
  if(v.school){
   const x=at();children(cv,x-44,2);
-  label(cv,x,tr('School zone'),v.school.inside?tr('In the zone'):v.school.text||'');
+  label(cv,x,tr('School zone'),v.school.sign?tr('Sign detected'):v.school.inside?tr('In the zone'):v.school.text||'');
  }
  if(v.camera){
   const x=at(),c=v.camera;camera(cv,x,42,c.section);
@@ -65,5 +65,5 @@ function paint(cv,v){
 function draw(v){return paint(new Canvas(W,H).clear([0,0,0,0]),v);}
 // At w x h (the Position / size scale), anti-aliased at that size rather than resampled.
 function drawSized(v,w,h){const cv=new ScaledCanvas(W,H,Math.min(w/W,h/H));cv.clear([0,0,0,0]);paint(cv,v);return cv.canvas;}
-function key(v){return v?JSON.stringify([v.speeding&&v.speeding.limit,!!v.speeding,v.school&&[v.school.inside,v.school.text],v.camera&&[v.camera.section,v.camera.inside,v.camera.text,v.camera.limit]]):'';}
+function key(v){return v?JSON.stringify([v.speeding&&v.speeding.limit,!!v.speeding,v.school&&[v.school.sign,v.school.inside,v.school.text],v.camera&&[v.camera.section,v.camera.inside,v.camera.text,v.camera.limit]]):'';}
 module.exports={W,H,SLOT,draw,drawSized,key};

diff --git a/apps/cluster_redline/data-demand.js b/apps/cluster_redline/data-demand.js
@@ -29,7 +29,10 @@ function demand(cfg,mode){
  if(turnSignals){add('de.bmw.body.Light','StatusFunctionsIndicators');add('de.bmw.body.Light','StatusFunctionsIndicators2');}
  // Vehicle alerts: the car's route events (speeding, school zones, speed cameras) by query, whenever they are on.
  const carAlerts=enabled&&cfg.hudCarAlerts!=='off'&&!cfg.hudCarAlertHidden;
- if(carAlerts)add('de.bmw.infotainment.navigation.guiding.GuidanceEventList');
+ // Speeding and children signs: the vehicle speed and the camera's sign recognition (traffic-signs.js);
+ // speed cameras: the navigation's route events by query.
+ if(carAlerts&&cfg.hudCarAlerts!=='camera')require('./traffic-signs').FIELDS.forEach(([i,f])=>add(i,f));
+ if(carAlerts&&(cfg.hudCarAlerts==='camera'||cfg.hudCarAlerts==='all'))add('de.bmw.infotainment.navigation.guiding.GuidanceEventList');
  if(turns){add(G,'conclusiveDart');add('de.bmw.infotainment.navigation.guiding.GuidanceEventList');add('de.bmw.infotainment.navigation.guiding.GuidanceRenderedContent');}
  return {fields,aux,rpm,torque,gear,mode:modeNeeded,nav:navAny,turns,turnSignals,carAlerts,lanes:enabled&&nav.lanes,parts:nav};
 }

diff --git a/tests/cluster_redline/worker.test.js b/tests/cluster_redline/worker.test.js
@@ -45,7 +45,7 @@ async function scenario(live, version, backend, withProgram, stopEarly, target, 
         if (name === './guidance') return require('../../apps/cluster_redline/guidance');
         if (name === './gear') return require('../../apps/cluster_redline/gear');
         if(name==='./battery-voltage')return require('../../apps/cluster_redline/battery-voltage');
-        if(['./demand-signals','./data-demand','./turn-signal','./turn-overlay','./preview-presence','./vehicle-alerts','./alert-overlay'].includes(name))return require('../../apps/cluster_redline/'+name.slice(2));
+        if(['./demand-signals','./data-demand','./turn-signal','./turn-overlay','./preview-presence','./vehicle-alerts','./alert-overlay','./traffic-signs','./traffic-live'].includes(name))return require('../../apps/cluster_redline/'+name.slice(2));
         throw new Error('Unexpected dependency ' + name);
     }, process: { hrtime: () => [Math.floor(time / 1000), Math.floor((time % 1000) * 1000000)], once() {}, removeListener() {} },
     setTimeout: (fn, ms) => { timer = fn; delay = ms; return 1; }, clearTimeout: () => { timer = null; }, console };

diff --git a/tests/cluster_redline/removed-traffic.test.js b/tests/cluster_redline/removed-traffic.test.js
@@ -13,7 +13,8 @@ assert(!cv.targets.some(t=>/probe|traffic/i.test(t.id||'')));
 const cfg=settings({hudTrafficMode:'both',appEnabled:true,allHudOutput:'redline'});
 assert.equal(cfg.hudTrafficMode,'off','old settings and favorites cannot reactivate alerts');
 assert(!Array.from(demand(cfg,'COMFORT').fields).some(f=>/TrafficSign|FrontCamera|Vehicle2\.statusCarSpeed2/.test(f)));
-for(const name of ['speed-probe','speed-probe-config','probe-archive','traffic-signs','traffic-live','traffic-draw'])assert(!fs.existsSync(root+'/'+name+'.js'),name+' must not be bundled');
+// traffic-signs / traffic-live are back for the vehicle alerts (1.3.9); the probe stays retired.
+for(const name of ['speed-probe','speed-probe-config','probe-archive','traffic-draw'])assert(!fs.existsSync(root+'/'+name+'.js'),name+' must not be bundled');
 const main=fs.readFileSync(root+'/app.js','utf8');
 assert(!/speedProbe|SpeedProbe|speed-probe|page\.probe/.test(main),'no collector can resume from an old recording flag');
 console.log('PASS retired menus, legacy saved settings, no traffic readers and no recording runtime');
